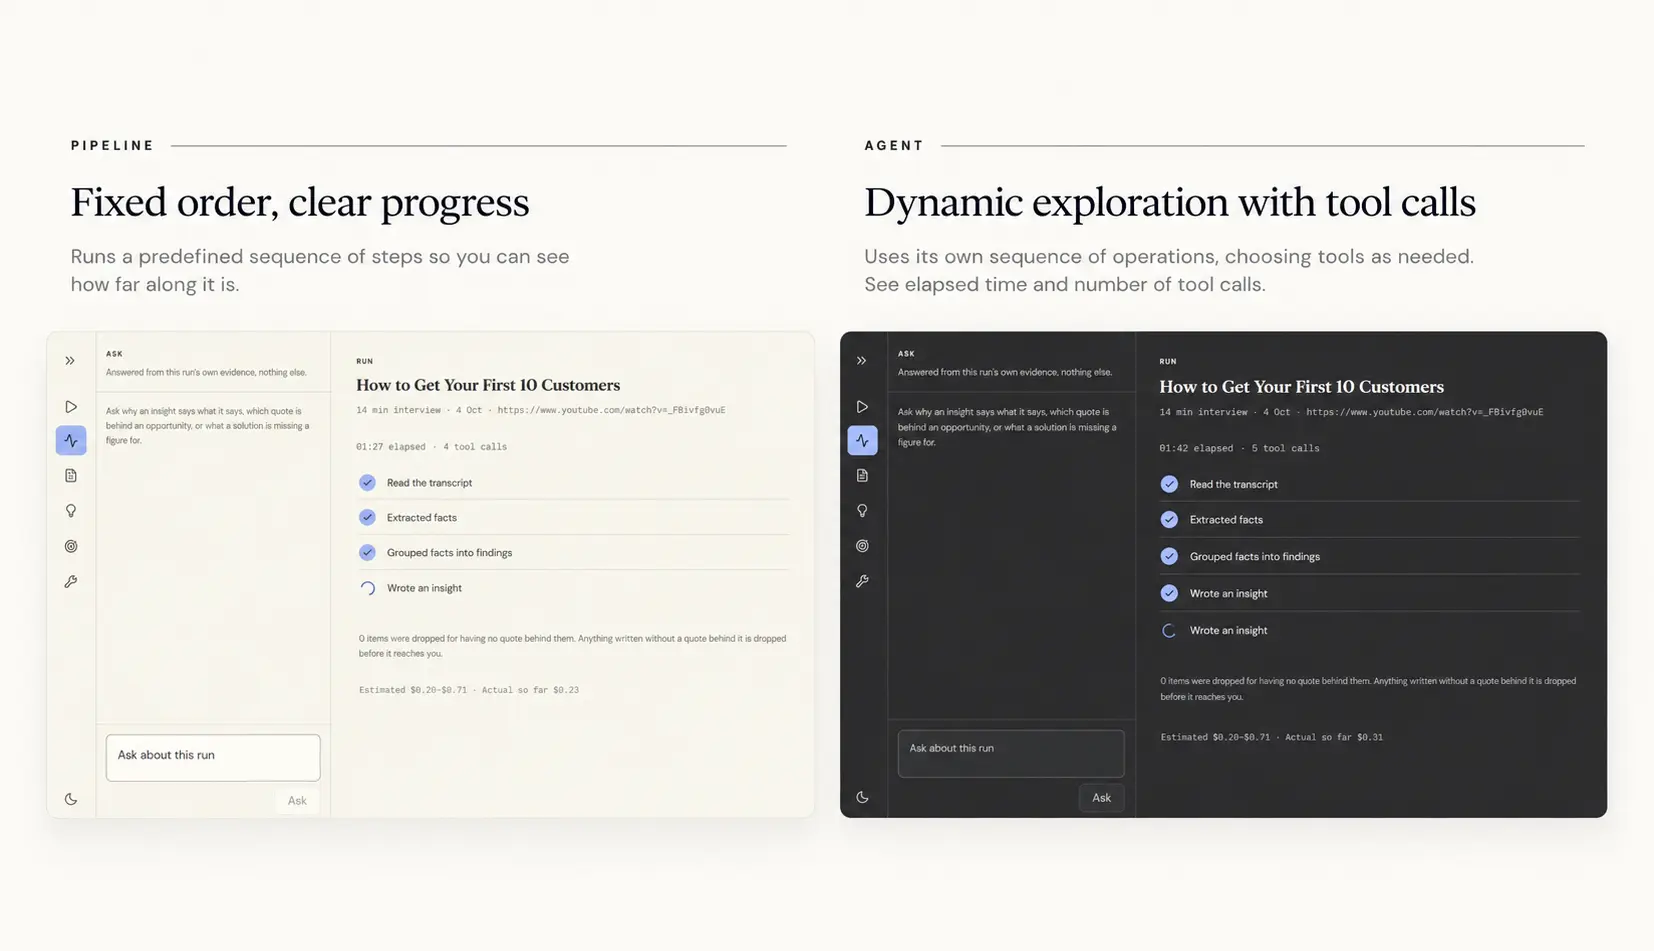
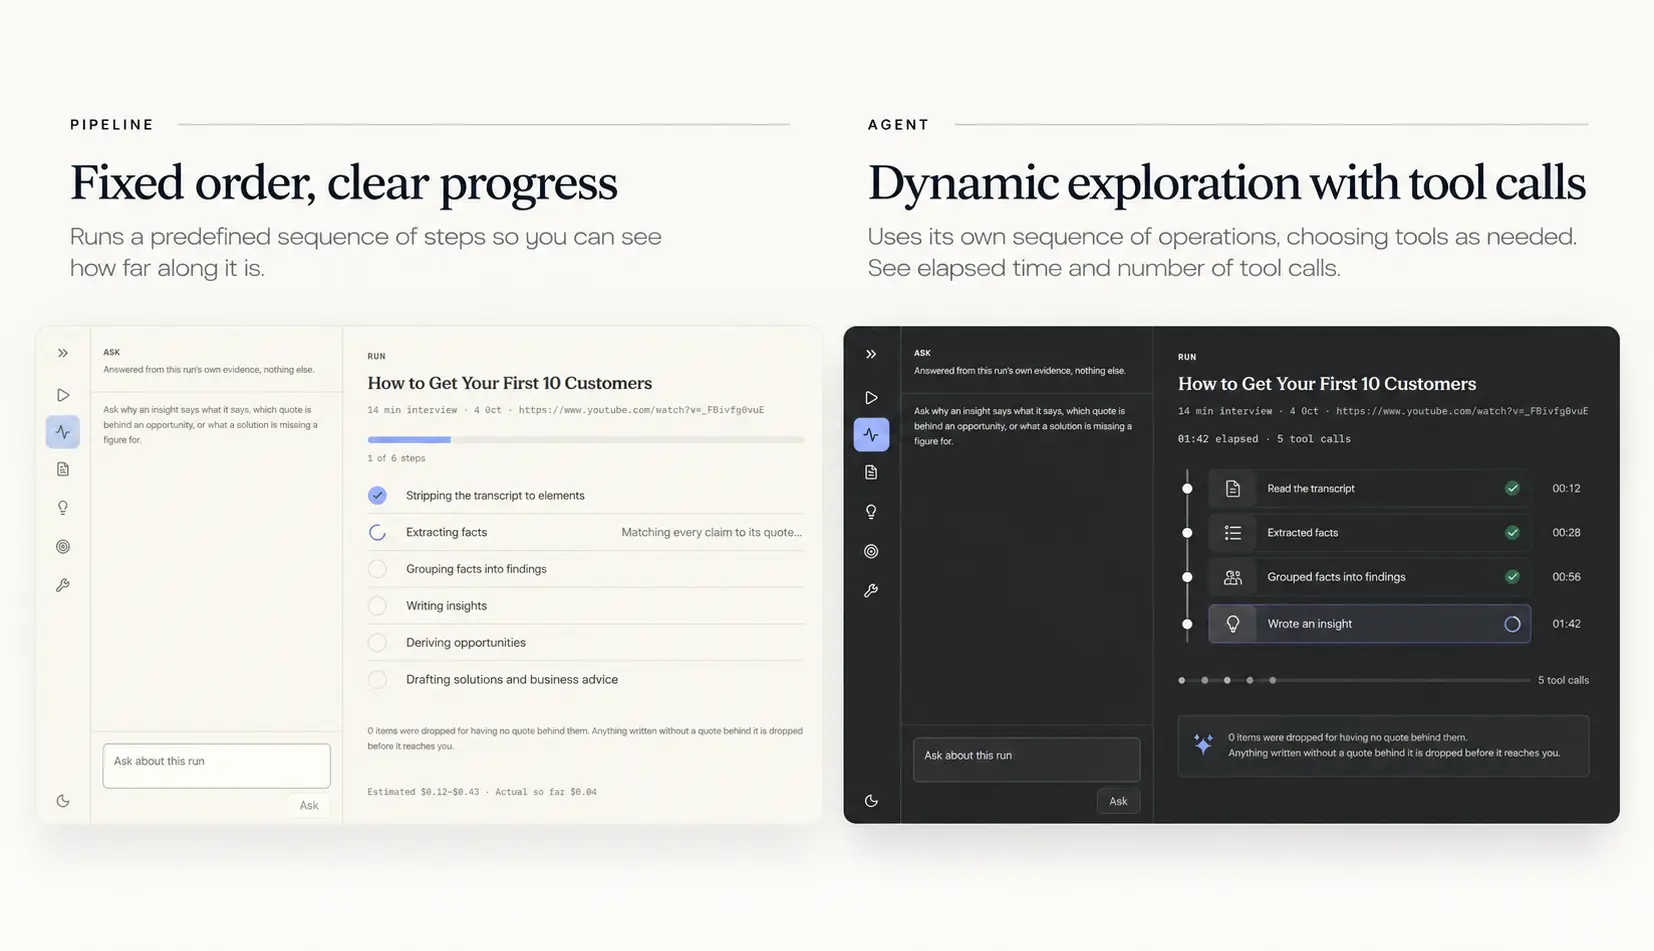
Swap Fieldnote screenshot 3 for the version with the pipeline progress bar
Claude-Session: https://claude.ai/code/session_01KPrcTPJ8YCdqCQnSUYa2rQ

diff --git a/index.html b/index.html
@@ -516,7 +516,7 @@ WORKFLOW&nbsp;<span style="color: rgb(154, 31, 35); font-size: clamp(44px, 7.4vw
           <p style="margin:0;color:var(--ink2);max-width:58ch"><b style="font-weight:600;color:var(--ink)">Agent.</b> The same operations exposed as seven tools — read the transcript, extract facts, group findings, write one insight, derive an opportunity, draft a solution, check evidence — and it chooses its own order and repetition. Capped at 60 turns so a loop that never converges ends the run instead of running forever. Its steps are decisions, not a schedule, so a different run can take a different route.</p>
           <p style="margin:0;color:var(--ink2);max-width:58ch">One rule, stated as a prohibition: no UI component may check which architecture is running. The agent gets elapsed time and a tool-call count instead of a progress bar — a percentage of an unknown number of steps is a fabrication. Even that is decided by the presence of a total, not by the architecture's name.</p>
           <figure style="margin:6px 0 0">
-            <img src="assets/fieldnote-runs.webp" alt="Two run-in-progress views side by side: the pipeline in the light theme and the agent in the dark theme, each with a checklist of completed steps, elapsed time and tool-call count." style="border:1px solid var(--rule)">
+            <img src="assets/fieldnote-runs.webp" alt="Two run-in-progress views side by side: the pipeline in the light theme with a progress bar at 1 of 6 steps, and the agent in the dark theme with elapsed time, a timeline of tool calls and a tool-call count." style="border:1px solid var(--rule)">
             <figcaption style="font-family:var(--mono2);font-size:11px;color:var(--mute);margin-top:9px;line-height:1.5">Same interview, same UI. The pipeline has a total, so it gets a progress bar. The agent doesn't, so it doesn't.</figcaption>
           </figure>
         </div>
